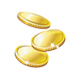
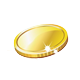
[Items] Improved pickup animation.

Changed region(s): [[0.175, 0.125, 0.85, 0.85]]

diff --git a/core/src/com/dokkaebistudio/tacticaljourney/components/item/ItemComponent.java b/core/src/com/dokkaebistudio/tacticaljourney/components/item/ItemComponent.java
@@ -1,8 +1,10 @@
 package com.dokkaebistudio.tacticaljourney.components.item;
 
+import java.util.ArrayList;
+import java.util.List;
+
 import com.badlogic.ashley.core.Component;
 import com.badlogic.ashley.core.Entity;
-import com.badlogic.gdx.graphics.g2d.TextureAtlas.AtlasRegion;
 import com.badlogic.gdx.math.Interpolation;
 import com.badlogic.gdx.math.RandomXS128;
 import com.badlogic.gdx.math.Vector2;
@@ -17,7 +19,6 @@ import com.dokkaebistudio.tacticaljourney.components.display.TextComponent;
 import com.dokkaebistudio.tacticaljourney.items.ItemEnum;
 import com.dokkaebistudio.tacticaljourney.room.Room;
 import com.dokkaebistudio.tacticaljourney.util.Mappers;
-import com.dokkaebistudio.tacticaljourney.util.TileUtil;
 
 public class ItemComponent implements Component, Poolable {
 		
@@ -25,7 +26,7 @@ public class ItemComponent implements Component, Poolable {
 	private ItemEnum itemType;
 	
 	/** The random value used by some items. Null if not used. */
-	private Integer randomValue;
+	private Integer quantity;
 	
 	/** The displayer that shows the quantity of this item (ex: quantity of arrows or bombs). */
 	private Entity quantityDisplayer;
@@ -37,8 +38,13 @@ public class ItemComponent implements Component, Poolable {
 	private Entity priceDisplayer;
 	
 	
+	//******************************
+	// Animation related attributes
+	
+	private Integer quantityPickedUp;
+	
 	/** The sprite used for the drop animation. */
-	private Image pickupAnimationImage;
+	private List<Image> pickupAnimationImages = new ArrayList<>();
 	/** The sprite used for the drop animation. */
 	private Image dropAnimationImage;
 
@@ -48,11 +54,13 @@ public class ItemComponent implements Component, Poolable {
 
 	@Override
 	public void reset() {
-		this.randomValue = null;
+		this.quantity = null;
+		this.quantityPickedUp = null;
 		this.quantityDisplayer = null;
 		this.price = null;
 		this.priceDisplayer = null;
 		this.setDropAnimationImage(null);
+		this.pickupAnimationImages.clear();
 	}
 	
 	/**
@@ -91,28 +99,40 @@ public class ItemComponent implements Component, Poolable {
 	 * @param pixelPos the tile on which the animation takes place
 	 * @param dropAction the action to call after the movement is over
 	 */
-	public Image getPickupAnimationImage(Entity item) {
+	public List<Image> getPickupAnimationImage(Entity item) {
+		this.pickupAnimationImages.clear();
+		
 		GridPositionComponent itemPositionComponent = Mappers.gridPositionComponent.get(item);
 		ItemComponent itemComponent = Mappers.itemComponent.get(item);
 		
-		final Image pickupImage = new Image(Assets.getTexture(itemComponent.getItemType().getImageName()));
 		
-		Vector2 worldPos = itemPositionComponent.getWorldPos();
-		pickupImage.setPosition(worldPos.x, worldPos.y);
+		int numberOfImages = 1;
+		if (itemComponent.getQuantity() != null) {
+			numberOfImages = itemComponent.getQuantityPickedUp() != null ? itemComponent.getQuantityPickedUp() : itemComponent.getQuantity();
+		}
 		
-		Action removeImageAction = new Action(){
-		  @Override
-		  public boolean act(float delta){
-			  pickupImage.remove();
-			  return true;
-		  }
-		};
-
-		pickupImage.addAction(Actions.sequence(Actions.moveTo(580, 30, 1f, Interpolation.circle),
-				removeImageAction));
+		for (int i=0 ; i<numberOfImages ; i++) {
+		
+			final Image pickupImage = new Image(Assets.getTexture(itemComponent.getItemType().getImageName()));
 			
-		this.pickupAnimationImage = pickupImage;
-		return pickupImage;
+			Vector2 worldPos = itemPositionComponent.getWorldPos();
+			pickupImage.setPosition(worldPos.x, worldPos.y);
+			
+			Action removeImageAction = new Action(){
+			  @Override
+			  public boolean act(float delta){
+				  pickupImage.remove();
+				  return true;
+			  }
+			};
+	
+			float duration = 0.1f * i;
+			pickupImage.addAction(Actions.sequence(Actions.moveBy(0, 0, duration), Actions.moveTo(580, 30, 1f, Interpolation.circle),
+					removeImageAction));
+				
+			this.pickupAnimationImages.add(pickupImage);
+		}
+		return this.pickupAnimationImages;
 	}
 	
 	
@@ -157,9 +177,9 @@ public class ItemComponent implements Component, Poolable {
 	 * @return the label to display
 	 */
 	public String getItemLabel() {
-		if (this.getRandomValue() != null) {
-			String label = itemType.getLabel().replace("#", String.valueOf(this.getRandomValue().intValue()));
-			Integer val = this.getRandomValue();
+		if (this.getQuantity() != null) {
+			String label = itemType.getLabel().replace("#", String.valueOf(this.getQuantity().intValue()));
+			Integer val = this.getQuantity();
 			if (val.intValue() == 1) {
 				label = label.replaceAll("\\[.*?\\]", "");
 			} else {
@@ -196,20 +216,20 @@ public class ItemComponent implements Component, Poolable {
 		this.itemType = itemType;
 	}
 
-	public Integer getRandomValue() {
-		if (randomValue == null && this.itemType.getRandomValueMax() != null) {
+	public Integer getQuantity() {
+		if (quantity == null && this.itemType.getRandomValueMax() != null) {
 			RandomXS128 random = RandomSingleton.getInstance().getSeededRandom();
 			int value = this.itemType.getRandomValueMin();
 			if (this.itemType.getRandomValueMax() > this.itemType.getRandomValueMin()) {
 				value += random.nextInt(this.itemType.getRandomValueMax() - this.itemType.getRandomValueMin());
 			}
-			setRandomValue(value);
+			setQuantity(value);
 		}
-		return randomValue;
+		return quantity;
 	}
 
-	public void setRandomValue(Integer value) {
-		this.randomValue = value;
+	public void setQuantity(Integer value) {
+		this.quantity = value;
 		
 		if (quantityDisplayer != null) {
 			TextComponent textComponent = Mappers.textComponent.get(quantityDisplayer);
@@ -254,11 +274,15 @@ public class ItemComponent implements Component, Poolable {
 		this.dropAnimationImage = dropAnimationImage;
 	}
 
-	public Image getPickupAnimationImage() {
-		return pickupAnimationImage;
+	public List<Image> getPickupAnimationImage() {
+		return pickupAnimationImages;
 	}
 
-	public void setPickupAnimationImage(Image pickupAnimationImage) {
-		this.pickupAnimationImage = pickupAnimationImage;
+	public Integer getQuantityPickedUp() {
+		return quantityPickedUp;
+	}
+
+	public void setQuantityPickedUp(Integer quantityPickedUp) {
+		this.quantityPickedUp = quantityPickedUp;
 	}
 }

diff --git a/core/src/com/dokkaebistudio/tacticaljourney/systems/ItemSystem.java b/core/src/com/dokkaebistudio/tacticaljourney/systems/ItemSystem.java
@@ -86,8 +86,10 @@ public class ItemSystem extends EntitySystem implements RoomSystem {
 					itemComponent.pickUp(player, item, room);
 					
 					// Pickup animation
-					Image pickupAnimationImage = itemComponent.getPickupAnimationImage(item);
-					fxStage.addActor(pickupAnimationImage);
+					List<Image> pickupAnimationImages = itemComponent.getPickupAnimationImage(item);
+					for (Image i : pickupAnimationImages) {
+						fxStage.addActor(i);
+					}
 
 					room.getRemovedItems().add(item);
 				}
@@ -134,8 +136,10 @@ public class ItemSystem extends EntitySystem implements RoomSystem {
 					System.out.println("Picked up " + itemComponent.getItemLabel());
 					
 					// Pickup animation
-					Image pickupAnimationImage = itemComponent.getPickupAnimationImage(currentItem);
-					fxStage.addActor(pickupAnimationImage);
+					List<Image> pickupAnimationImages = itemComponent.getPickupAnimationImage(currentItem);
+					for (Image i : pickupAnimationImages) {
+						fxStage.addActor(i);
+					}
 
 					room.getRemovedItems().add(currentItem);
 					room.turnManager.endPlayerTurn();
@@ -264,9 +268,9 @@ public class ItemSystem extends EntitySystem implements RoomSystem {
 		GridPositionComponent gridPositionComponent = Mappers.gridPositionComponent.get(item);
 		Vector2 pixelPos = TileUtil.convertGridPosIntoPixelPos(gridPositionComponent.coord());
 
-		if (itemComponent.getRandomValue() != null) {
+		if (itemComponent.getQuantity() != null) {
 			Entity quantityDisplayer = this.room.entityFactory.createText(new Vector3(pixelPos, ZIndexConstants.ITEM),
-					String.valueOf(itemComponent.getRandomValue()), room);
+					String.valueOf(itemComponent.getQuantity()), room);
 			TextComponent textComponent = Mappers.textComponent.get(quantityDisplayer);
 			GridPositionComponent displayerPosCompo = Mappers.gridPositionComponent.get(quantityDisplayer);
 			displayerPosCompo.absolutePos(displayerPosCompo.getAbsolutePos().x + 10, displayerPosCompo.getAbsolutePos().y + 10 + textComponent.getHeight());

diff --git a/core/src/com/dokkaebistudio/tacticaljourney/items/ItemEnum.java b/core/src/com/dokkaebistudio/tacticaljourney/items/ItemEnum.java
@@ -33,8 +33,9 @@ public enum ItemEnum {
 		@Override
 		public boolean use(Entity user, Entity item, Room room) {
 			ItemComponent itemComponent = Mappers.itemComponent.get(item);
+			itemComponent.setQuantityPickedUp(itemComponent.getQuantity());
 			WalletComponent walletComponent = Mappers.walletComponent.get(user);
-			walletComponent.receive(itemComponent.getRandomValue());
+			walletComponent.receive(itemComponent.getQuantity());
 			return true;
 		}
 	},
@@ -55,10 +56,11 @@ public enum ItemEnum {
 		public boolean use(Entity user, Entity item, Room room) {
 			ItemComponent itemComponent = Mappers.itemComponent.get(item);
 			AmmoCarrierComponent ammoCarrierComponent = Mappers.ammoCarrierComponent.get(user);
-			int remainingArrows = ammoCarrierComponent.pickUpAmmo(AmmoTypeEnum.ARROWS, itemComponent.getRandomValue());
+			int remainingArrows = ammoCarrierComponent.pickUpAmmo(AmmoTypeEnum.ARROWS, itemComponent.getQuantity());
 			
 			if (remainingArrows > 0) {
-				itemComponent.setRandomValue(remainingArrows);
+				itemComponent.setQuantityPickedUp(itemComponent.getQuantity() - remainingArrows);
+				itemComponent.setQuantity(remainingArrows);
 				return false;
 			}
 			return true;
@@ -81,10 +83,11 @@ public enum ItemEnum {
 		public boolean use(Entity user, Entity item, Room room) {
 			ItemComponent itemComponent = Mappers.itemComponent.get(item);
 			AmmoCarrierComponent ammoCarrierComponent = Mappers.ammoCarrierComponent.get(user);
-			int remainingBombs = ammoCarrierComponent.pickUpAmmo(AmmoTypeEnum.BOMBS, itemComponent.getRandomValue());
+			int remainingBombs = ammoCarrierComponent.pickUpAmmo(AmmoTypeEnum.BOMBS, itemComponent.getQuantity());
 			
 			if (remainingBombs > 0) {
-				itemComponent.setRandomValue(remainingBombs);
+				itemComponent.setQuantityPickedUp(itemComponent.getQuantity() - remainingBombs);
+				itemComponent.setQuantity(remainingBombs);
 				return false;
 			}
 			return true;		}
